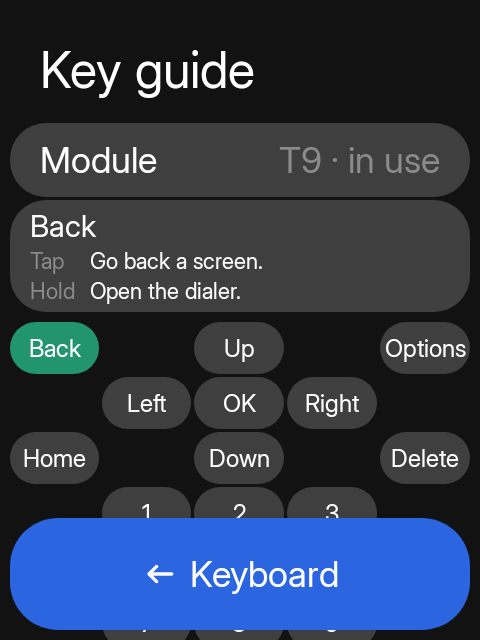
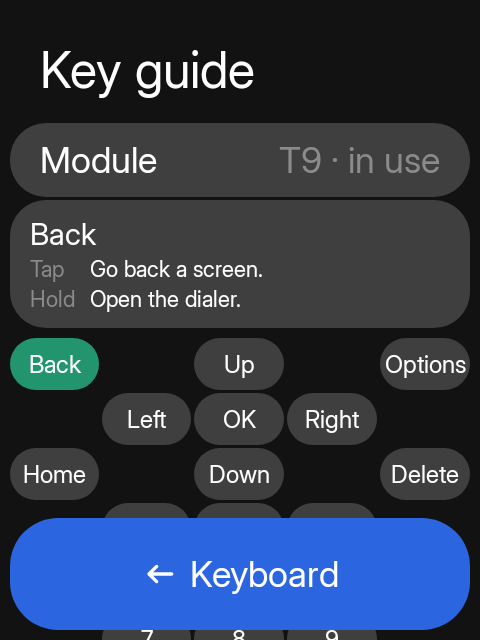
fix(sdk): let the key-cap card grow with its sentences
The card that shows one key's tap and long press was pinned to 112 dp, so a
key whose sentences wrapped lost the second line. It now keeps 112 dp as a
floor and grows, and takes its text colours from the tile surface it paints
instead of the page, so a themed surface cannot leave the labels unreadable.

diff --git a/sidekit-sdk/src/main/java/hrln/interactive/sidekit/sdk/settings/KeypadGuide.kt b/sidekit-sdk/src/main/java/hrln/interactive/sidekit/sdk/settings/KeypadGuide.kt
@@ -5,13 +5,15 @@ import androidx.annotation.StringRes
 import androidx.compose.animation.AnimatedVisibility
 import androidx.compose.animation.expandVertically
 import androidx.compose.animation.shrinkVertically
+import androidx.compose.foundation.background
 import androidx.compose.foundation.layout.Arrangement
+import androidx.compose.foundation.layout.Box
 import androidx.compose.foundation.layout.Column
 import androidx.compose.foundation.layout.Row
 import androidx.compose.foundation.layout.Spacer
-import androidx.compose.foundation.layout.fillMaxSize
 import androidx.compose.foundation.layout.fillMaxWidth
 import androidx.compose.foundation.layout.height
+import androidx.compose.foundation.layout.heightIn
 import androidx.compose.foundation.layout.padding
 import androidx.compose.foundation.layout.width
 import androidx.compose.runtime.Composable
@@ -21,6 +23,8 @@ import androidx.compose.runtime.remember
 import androidx.compose.runtime.setValue
 import androidx.compose.ui.Alignment
 import androidx.compose.ui.Modifier
+import androidx.compose.ui.draw.clip
+import androidx.compose.ui.graphics.Color
 import androidx.compose.ui.platform.LocalContext
 import androidx.compose.ui.res.stringResource
 import androidx.compose.ui.unit.dp
@@ -28,6 +32,7 @@ import hrln.interactive.sidekit.design.components.SidekitText
 import hrln.interactive.sidekit.design.components.SidekitTile
 import hrln.interactive.sidekit.design.input.KeypadModule
 import hrln.interactive.sidekit.design.theme.SidekitTheme
+import hrln.interactive.sidekit.design.theme.contentColorFor
 import hrln.interactive.sidekit.sdk.R
 
 /** One printed key and what it does on tap and on a long press. */
@@ -244,23 +249,40 @@ fun KeypadGuide(module: KeypadModule) {
 
 @Composable
 private fun KeypadGuideDetail(key: KeypadGuideKey) {
-    SidekitTile(
-        Modifier.fillMaxWidth().height(112.dp),
+    // The card grows with its tap and hold sentences instead of clipping them at a fixed height.
+    val surface = SidekitTheme.colors.surfaceA3
+    val content = SidekitTheme.colors.contentColorFor(surface)
+    Box(
+        Modifier
+            .fillMaxWidth()
+            .heightIn(min = 112.dp)
+            .clip(SidekitTheme.shapes.item)
+            .background(surface),
         contentAlignment = Alignment.CenterStart
     ) {
         Column(
-            Modifier.fillMaxSize().padding(horizontal = 20.dp),
+            Modifier.fillMaxWidth().padding(horizontal = 20.dp, vertical = 16.dp),
             verticalArrangement = Arrangement.Center
         ) {
-            SidekitText(key.label, style = SidekitTheme.typography.label, maxLines = 1)
-            GuideAction(stringResource(R.string.sk_sdk_guide_tap), key.tap)
-            GuideAction(stringResource(R.string.sk_sdk_guide_hold), key.hold ?: stringResource(R.string.sk_sdk_guide_no_long_press), muted = key.hold == null)
+            SidekitText(key.label, style = SidekitTheme.typography.label, color = content, maxLines = 1)
+            GuideAction(stringResource(R.string.sk_sdk_guide_tap), key.tap, contentColor = content)
+            GuideAction(
+                stringResource(R.string.sk_sdk_guide_hold),
+                key.hold ?: stringResource(R.string.sk_sdk_guide_no_long_press),
+                muted = key.hold == null,
+                contentColor = content
+            )
         }
     }
 }
 
 @Composable
-private fun GuideAction(label: String, action: String, muted: Boolean = false) {
+private fun GuideAction(
+    label: String,
+    action: String,
+    muted: Boolean = false,
+    contentColor: Color = SidekitTheme.colors.contentColorFor(SidekitTheme.colors.surfaceA3)
+) {
     Row(
         modifier = Modifier.padding(top = 4.dp),
         horizontalArrangement = Arrangement.spacedBy(8.dp),
@@ -273,21 +295,12 @@ private fun GuideAction(label: String, action: String, muted: Boolean = false) {
             color = SidekitTheme.colors.surfaceA6,
             maxLines = 1
         )
-        if (muted) {
-            SidekitText(
-                action,
-                Modifier.weight(1f),
-                style = SidekitTheme.typography.tiny,
-                color = SidekitTheme.colors.surfaceA6,
-                maxLines = 2
-            )
-        } else {
-            SidekitText(
-                action,
-                Modifier.weight(1f),
-                style = SidekitTheme.typography.tiny,
-                maxLines = 2
-            )
-        }
+        SidekitText(
+            action,
+            Modifier.weight(1f),
+            style = SidekitTheme.typography.tiny,
+            color = if (muted) SidekitTheme.colors.surfaceA6 else contentColor,
+            maxLines = Int.MAX_VALUE
+        )
     }
 }
